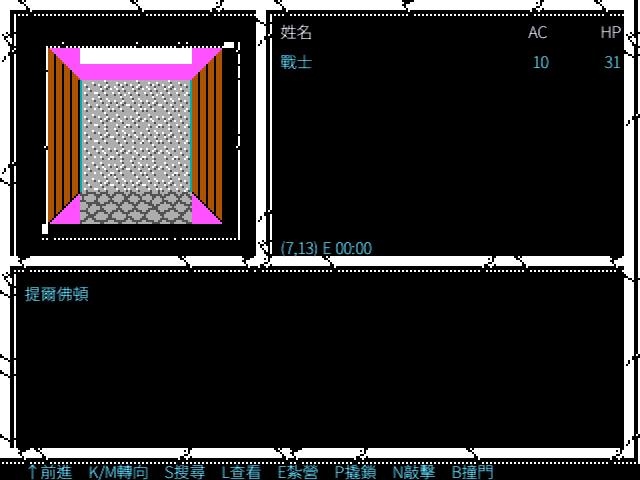
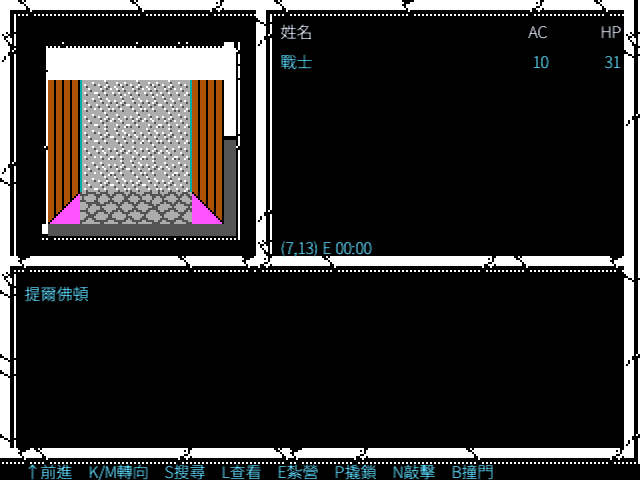
fix: fill first-person stage inset

Changed region(s): [[0.0625, 0.0938, 0.375, 0.5]]

diff --git a/cmd/azure-bonds-game/main.go b/cmd/azure-bonds-game/main.go
@@ -29,7 +29,6 @@ import (
 	"github.com/wicanr2/Curse-of-the-Azure-Bonds-cht/gamepack"
 	"github.com/wicanr2/Curse-of-the-Azure-Bonds-cht/internal/area"
 	"github.com/wicanr2/Curse-of-the-Azure-Bonds-cht/internal/combat"
-	"github.com/wicanr2/golden-box-remake-engine/dax"
 	"github.com/wicanr2/Curse-of-the-Azure-Bonds-cht/internal/dungeon"
 	"github.com/wicanr2/Curse-of-the-Azure-Bonds-cht/internal/ecl"
 	"github.com/wicanr2/Curse-of-the-Azure-Bonds-cht/internal/etenfont"
@@ -45,6 +44,7 @@ import (
 	enginearea "github.com/wicanr2/golden-box-remake-engine/areamap"
 	engineaction "github.com/wicanr2/golden-box-remake-engine/combat/action"
 	enginescan "github.com/wicanr2/golden-box-remake-engine/combat/scan"
+	"github.com/wicanr2/golden-box-remake-engine/dax"
 	goldenengine "github.com/wicanr2/golden-box-remake-engine/engine"
 )
 
@@ -2672,8 +2672,12 @@ func (a *app) drawDungeonGame(screen *ebiten.Image, white, cyan color.Color) {
 		int(a.state.GameTimeDisplay().Hour),
 		direction,
 	)
+	stageFill, fillErr := gfx.FillBackgroundToStageInset(background, gfx.StageInset{X: 22, Y: 22, Width: 98, Height: 98, WallTop: 40})
+	if fillErr != nil {
+		backgroundErr = fillErr
+	}
 	if backgroundErr == nil {
-		for _, rectangle := range background.Rects {
+		for _, rectangle := range stageFill.Backdrop {
 			ebitenutil.DrawRect(screen,
 				float64(rectangle.X*2), float64(rectangle.Y*2),
 				float64(rectangle.Width*2), float64(rectangle.Height*2),
@@ -2712,6 +2716,10 @@ func (a *app) drawDungeonGame(screen *ebiten.Image, white, cyan color.Color) {
 		op.GeoM.Scale(scale, scale)
 		op.GeoM.Translate(float64(nativeX*2), float64(nativeY*2))
 		screen.DrawImage(image, op)
+	}
+	for _, rectangle := range stageFill.PostWall {
+		ebitenutil.DrawRect(screen, float64(rectangle.X*2), float64(rectangle.Y*2),
+			float64(rectangle.Width*2), float64(rectangle.Height*2), gfx.EGA16[rectangle.PaletteIndex])
 	}
 	a.drawFirstPersonStageFrame(screen)
 	// The extended DOS chrome owns an opaque command strip at y=448..479.

diff --git a/internal/gfx/wallview.go b/internal/gfx/wallview.go
@@ -8,6 +8,9 @@ import (
 type WallLayoutCall = engineview.WallLayoutCall
 type WallView = engineview.WallView
 type Background = engineview.Background
+type BackgroundRect = engineview.BackgroundRect
+type StageInset = engineview.StageInset
+type StageInsetFill = engineview.StageInsetFill
 type SkyOverlayKind = engineview.SkyOverlayKind
 
 const (
@@ -17,6 +20,7 @@ const (
 )
 
 var BuildBackground = engineview.BuildBackground
+var FillBackgroundToStageInset = engineview.FillBackgroundToStageInset
 
 func TraverseWallView(grid geo.Grid, partyDirection uint8, partyX, partyY int) (WallView, error) {
 	return engineview.TraverseWallView(grid, partyDirection, partyX, partyY)

diff --git a/docs/spec/1250-first-person-inset-fill.md b/docs/spec/1250-first-person-inset-fill.md
@@ -1,0 +1,32 @@
+# 1250 — 第一人稱場景填滿內框
+
+- 狀態：`READY`
+- 證據等級：`exact`（現行 PNG／stage-frame alpha 幾何）；`project decision`
+  （使用者 2026-09-01 指定內框不得留下黑色空帶）
+
+## 問題
+
+`tilverton-first-person-remake.png` 的牆與背景仍依 DOS 的 88×88 區域
+`(24,24)..(111,111)` 繪製，但 stage frame 的內側透明孔延伸到
+`(22,22)..(119,119)`。因此場景四周留下 2～8 個 native pixels 的黑色空帶；
+先前 `docs/audit/readme-scene-recapture-2026-08-31.md` 只檢查 176×176 區域有內容，
+卻誤寫成「填滿透明孔」。
+
+## 實作契約
+
+1. 保留 DOS 88×88 牆片座標與 nearest-neighbour 像素，不縮放牆片。
+2. 背景的天空、地平線與地面向外延伸到 stage frame 的安全內框
+   `(22,22)..(119,119)`，作為牆片下方的完整底色；內框仍最後疊上。
+   牆片合成後再用同一個 sky palette 封滿 `(22,22)..(119,39)` 的頂部帶，
+   避免斜邊牆片的黑底重新蓋回左上角；不得覆蓋 row 40 起的側牆與中央牆。
+3. 不把牆片中的合法黑色改成透明，也不改變 spec 1131 已證實的洋紅透明鍵。
+4. 重新由 `-tilverton-dungeon` 正式 checkpoint 擷取 README 現用 PNG；不得後製裁切。
+5. 回歸測試鎖定填滿後三段背景的矩形範圍，並確認原始 `BuildBackground` 結果未被修改。
+6. 回歸測試另鎖定頂部封口 rectangle，避免調整牆片順序後恢復黑角。
+
+## 共用 engine 抽取（2026-09-01）
+
+使用者確認 Pool of Radiance 採相同機制後，演算法已移至作品中立的
+`viewport.FillBackgroundToStageInset`。CoAB 只提供自己的 native
+`StageInset{22,22,98,98,WallTop:40}` 並依序繪製 `Backdrop → walls → PostWall`；
+Pool 以自己的 frame 幾何消費同一 API。engine 不含作品名稱、palette RGB 或場景常數。
